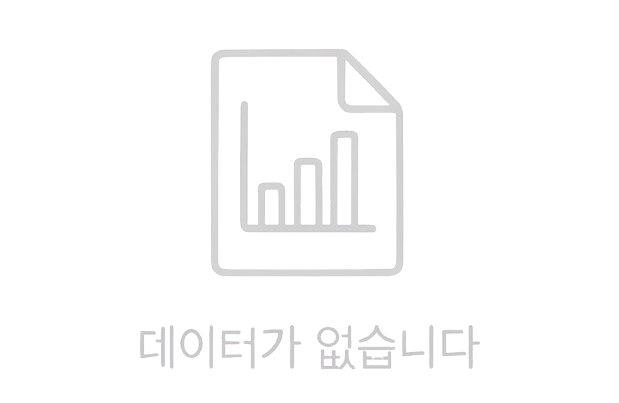
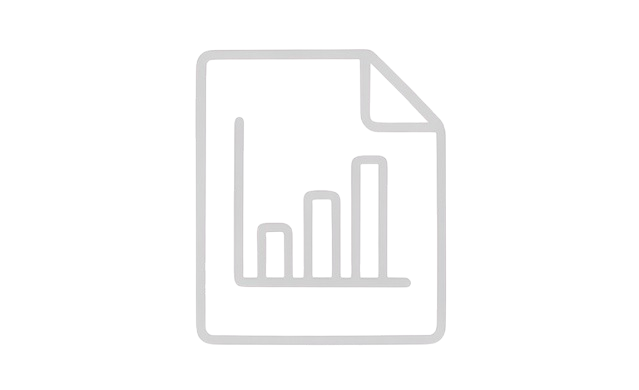
refactor: 이미지 없음 문구 추가

Changed region(s): [[0.2149, 0.1231, 0.7674, 0.9231]]

diff --git a/src/pages/ChartVIew/components/Chart.vue b/src/pages/ChartVIew/components/Chart.vue
@@ -53,6 +53,9 @@
       style="width: 400px; padding-top: 30px"
       class="mx-auto opacity-70 mt-0"
     />
+    <p style="color: #999; font-size: 18px; margin-top: 10px">
+      데이터가 없습니다
+    </p>
   </div>
 
   <h2 v-else class="text-center text-xl mt-10">
